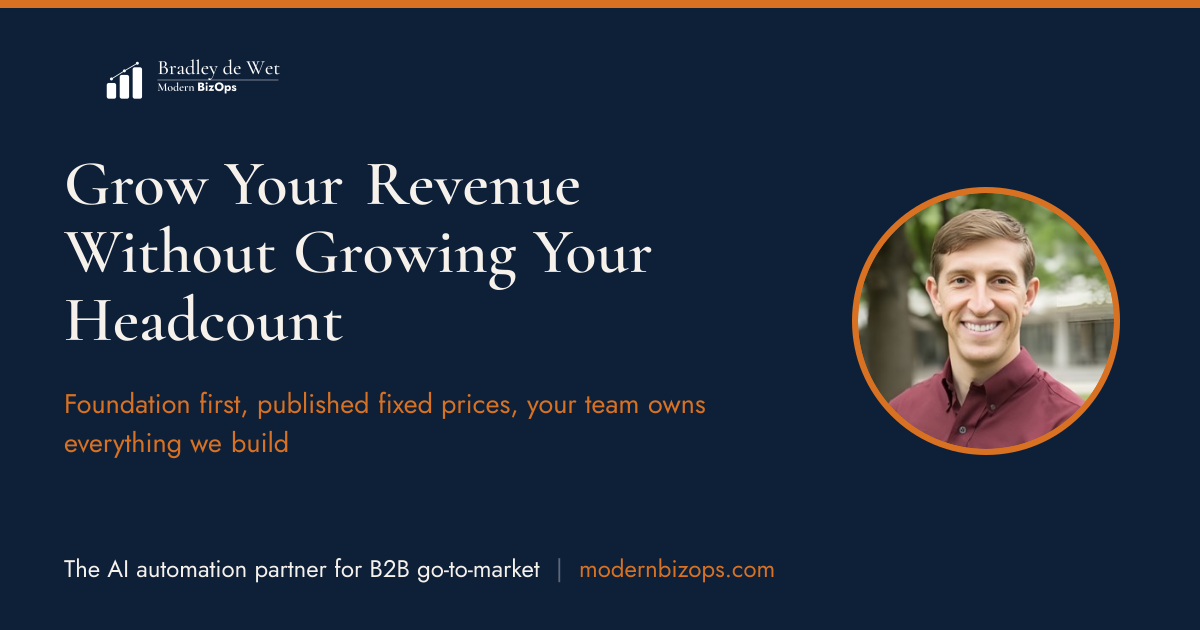
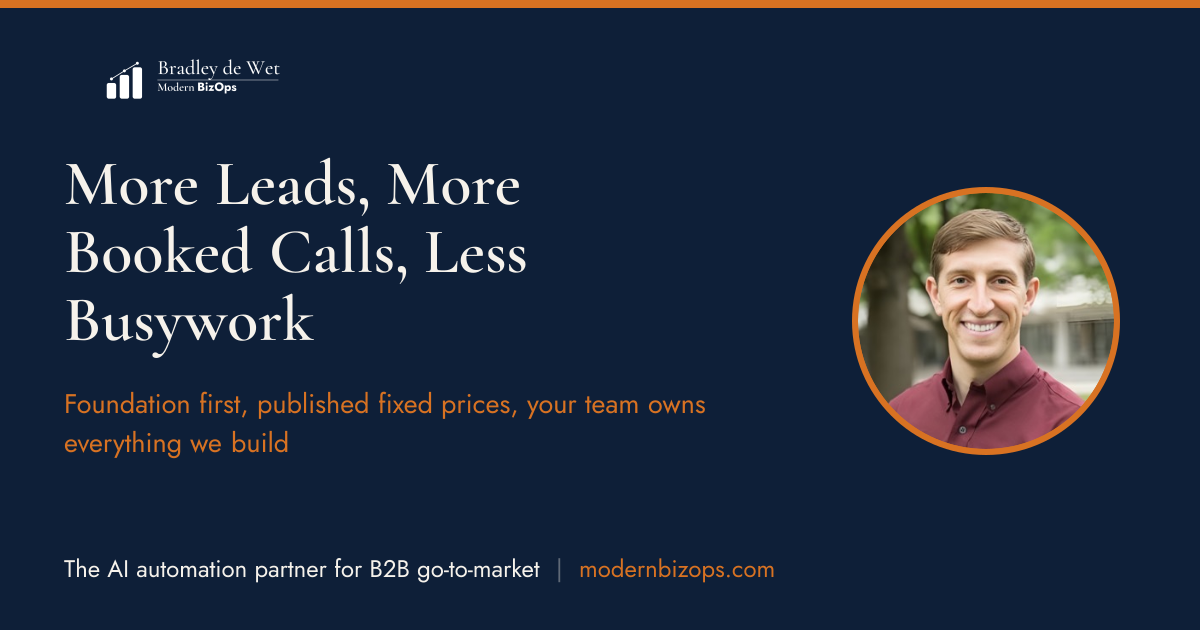
fix(og): refresh the three cards still selling the retired offer, and test card copy
Nothing has ever tested share-card copy, which is how the shared footer
template kept saying "Revenue Growth Coach" for months after that offer
was retired. That line was fixed yesterday. Opening the cards afterwards
found three more that the fix did not reach, because the copy sits in
per-card strings rather than the template:

- homepage led with "Grow Your Revenue Without Growing Your Headcount".
  That is the pre-pivot promise on the most-shared image on the site,
  and the previous pass flagged it as owed rather than changing it. It
  is now the homepage H1 itself, the approved outcome-led line.
- about read "Helping founder-led B2B companies build revenue engines
  that grow without headcount". Same retired positioning, on a page that
  has just been rebuilt around a different one.
- service-ai-consulting carried "Foundations first, then the
  acceleration", which the approved step-16 retarget shortened to
  "Foundations first." when it rewrote that page's dek.

All three regenerated and opened. The diff is those three PNGs and this
script, and nothing else.

The test is the point of the commit. It reads the generator source,
which is the only place card words exist as text, and holds them to the
copy law the pages obey: no retired vocabulary, no em dashes, no
contractions, the shared footer line identical to the site footer's, and
every card shipped with its regenerate flag off. It also fails when a
[…]

Changed region(s): [[0.0617, 0.3619, 0.555, 0.573], [0.0308, 0.2413, 0.4933, 0.3317]]

diff --git a/__tests__/og/card-copy.test.js b/__tests__/og/card-copy.test.js
@@ -1,0 +1,165 @@
+import { describe, it, expect } from "vitest";
+import { readFileSync } from "node:fs";
+import { join, dirname } from "node:path";
+import { fileURLToPath } from "node:url";
+import { LEARN_PAGES } from "@/lib/learn/registry";
+import { OFFER_PAGES } from "@/lib/offerPages";
+import { LEARN_INDEX } from "@/lib/learnIndex";
+
+// WHY THIS FILE EXISTS.
+//
+// Nothing tested the share cards until 2026-08-12, and it showed. The shared
+// footer template said "Revenue Growth Coach" for months after that offer was
+// retired, so every card the script had ever produced carried it, including
+// five generated hours after the pivot for pages selling an AI automation
+// partnership. The homepage card, the most-shared image on the site, still led
+// with "Grow Your Revenue Without Growing Your Headcount".
+//
+// None of that was catchable by the checks that did exist. Those confirmed the
+// files were on disk and the URLs resolved, which was true the whole time. The
+// copy is only visible by opening the PNG, and nothing opens the PNG.
+//
+// So this reads the generator source, which is the only place the words live in
+// text form, and holds it to the same copy law the pages obey. It cannot see
+// the rendered artwork. It CAN see a retired phrase re-entering the source, and
+// it can see a page pointing at a card the script does not know how to build.
+//
+// A card whose copy changes still has to be regenerated by hand and the PNG
+// read back with human eyes. This test does not replace that. It replaces the
+// possibility of a retired phrase sitting in the template unnoticed.
+
+const ROOT = join(dirname(fileURLToPath(import.meta.url)), "../..");
+const SRC = readFileSync(join(ROOT, "scripts/generate-og.mjs"), "utf8");
+const FOOTER_JSX = readFileSync(join(ROOT, "components/Footer.jsx"), "utf8");
+
+// Every single-quoted literal assigned to a copy-carrying field, plus the
+// contents of the `chips` arrays. Style values are keyed on `style`, so they do
+// not come through here.
+function cardCopy() {
+  const start = SRC.indexOf("const CARDS = {");
+  expect(start, "CARDS object literal not found in generate-og.mjs").toBeGreaterThan(-1);
+  const body = SRC.slice(start);
+
+  const out = [];
+  for (const m of body.matchAll(
+    /(?:headline|subline|kicker|footnote|title|label):\s*'([^']*)'/g
+  )) {
+    out.push(m[1]);
+  }
+  for (const m of body.matchAll(/chips:\s*\[([^\]]*)\]/g)) {
+    for (const c of m[1].matchAll(/'([^']*)'/g)) out.push(c[1]);
+  }
+  return out;
+}
+
+// Also sweep the shared templates above CARDS, because that is exactly where
+// the retired line hid: not in any card, in the frame every card sits in.
+function templateCopy() {
+  const end = SRC.indexOf("const CARDS = {");
+  const head = SRC.slice(0, end);
+  return [...head.matchAll(/,\s*'([A-Za-z][^']{6,})'\s*[,)]/g)].map((m) => m[1]);
+}
+
+// Retired vocabulary. Each entry is [pattern, why], so a failure explains
+// itself to whoever trips it rather than just naming a regex.
+const BANNED = [
+  [/\bcoach(es|ing)?\b/i, 'the coaching offer is retired; the company sells named builds'],
+  [/\b15 years\b/i, 'the positioning number is "over a decade"; nothing new asserts fifteen'],
+  [/\bfifteen years\b/i, 'the positioning number is "over a decade"'],
+  [/\$\s?3M\b/i, 'the "$3M to $50M" band moved into ICP qualification, off public surfaces'],
+  [/\$\s?50M\b/i, 'the "$3M to $50M" band moved into ICP qualification, off public surfaces'],
+  [/revenue growth coach/i, 'the retired role line that shipped on every card for months'],
+];
+
+// Website copy spells contractions out: "do not", "you are", "it will". The
+// `'s` form is deliberately not listed, because "Bradley's record" and "it's"
+// are the same two characters and only the sentence tells them apart. Every
+// other suffix is unambiguous.
+const CONTRACTION = /\b\w+['’](?:t|re|ve|ll|d|m)\b/;
+
+describe("open graph card copy", () => {
+  const copy = cardCopy();
+  const template = templateCopy();
+  const all = [...copy, ...template];
+
+  it("finds card copy to check at all", () => {
+    // A refactor that renames the copy fields would otherwise make every
+    // assertion below pass against an empty list.
+    expect(copy.length).toBeGreaterThan(40);
+    expect(all.join(" ")).toContain("The AI automation partner for B2B go-to-market");
+  });
+
+  it("carries no retired vocabulary", () => {
+    for (const line of all) {
+      for (const [pattern, why] of BANNED) {
+        expect(pattern.test(line), `"${line}" is banned: ${why}`).toBe(false);
+      }
+    }
+  });
+
+  it("uses no em dashes and no contractions", () => {
+    for (const line of all) {
+      expect(line, `"${line}" contains an em dash`).not.toMatch(/—/);
+      expect(CONTRACTION.test(line), `"${line}" contains a contraction`).toBe(false);
+    }
+  });
+
+  it("recognises a contraction and a possessive apart", () => {
+    // Guards the regex above, which is the one assertion here whose correctness
+    // is not obvious by reading it.
+    for (const bad of ["you're late", "do not, don't", "it'll work", "we've shipped", "I'm here"]) {
+      expect(CONTRACTION.test(bad), `${bad} should read as a contraction`).toBe(true);
+    }
+    for (const ok of ["Bradley's record", "a client's stack", "six months"]) {
+      expect(CONTRACTION.test(ok), `${ok} should not read as a contraction`).toBe(false);
+    }
+  });
+
+  it("keeps the shared footer line identical to the site footer", () => {
+    // The drift that produced the bug: the card template and the page footer
+    // are two copies of one positioning line, and only one of them was updated
+    // when the offer changed.
+    const line = "The AI automation partner for B2B go-to-market";
+    expect(SRC).toContain(`'${line}'`);
+    expect(FOOTER_JSX).toContain(line);
+  });
+
+  it("ships with every card flagged unchanged", () => {
+    // `changed: true` is the switch that tells the script to re-render a card.
+    // Leaving one on means the next unrelated run rewrites a PNG nobody meant
+    // to touch, which is how a share image changes without a commit that says
+    // so. The committed state is always all-false.
+    expect(SRC).not.toMatch(/changed:\s*true/);
+  });
+
+  it("can regenerate every card a page points at", () => {
+    // Three cards were generated before the CARDS table existed and never got
+    // an entry, so `--all` silently skips them and this test would fail without
+    // saying anything useful. They are listed here rather than hidden: their
+    // copy is clean, but they sit on an older template and cannot be
+    // regenerated. Adding entries means re-rendering them onto the current
+    // template, which is a visual change and an owner's call, not a sweep's.
+    const PRE_TABLE_CARDS = [
+      "og-learn-stage-1-reactive.png",
+      "og-learn-crm-architecture.png",
+      "og-learn-pipeline-stage-design.png",
+    ];
+
+    const referenced = new Set(
+      [
+        ...Object.values(LEARN_PAGES).map((p) => p.ogImage),
+        ...Object.values(OFFER_PAGES).map((p) => p.ogImage),
+        LEARN_INDEX.ogImage,
+      ].map((url) => url.split("/").pop())
+    );
+
+    const generated = new Set(
+      [...SRC.matchAll(/^ {2}'?([a-z0-9-]+)'?: \{$/gm)].map((m) => `og-${m[1]}.png`)
+    );
+
+    const orphans = [...referenced].filter(
+      (f) => !generated.has(f) && !PRE_TABLE_CARDS.includes(f)
+    );
+    expect(orphans, "pages point at cards generate-og.mjs cannot build").toEqual([]);
+  });
+});
